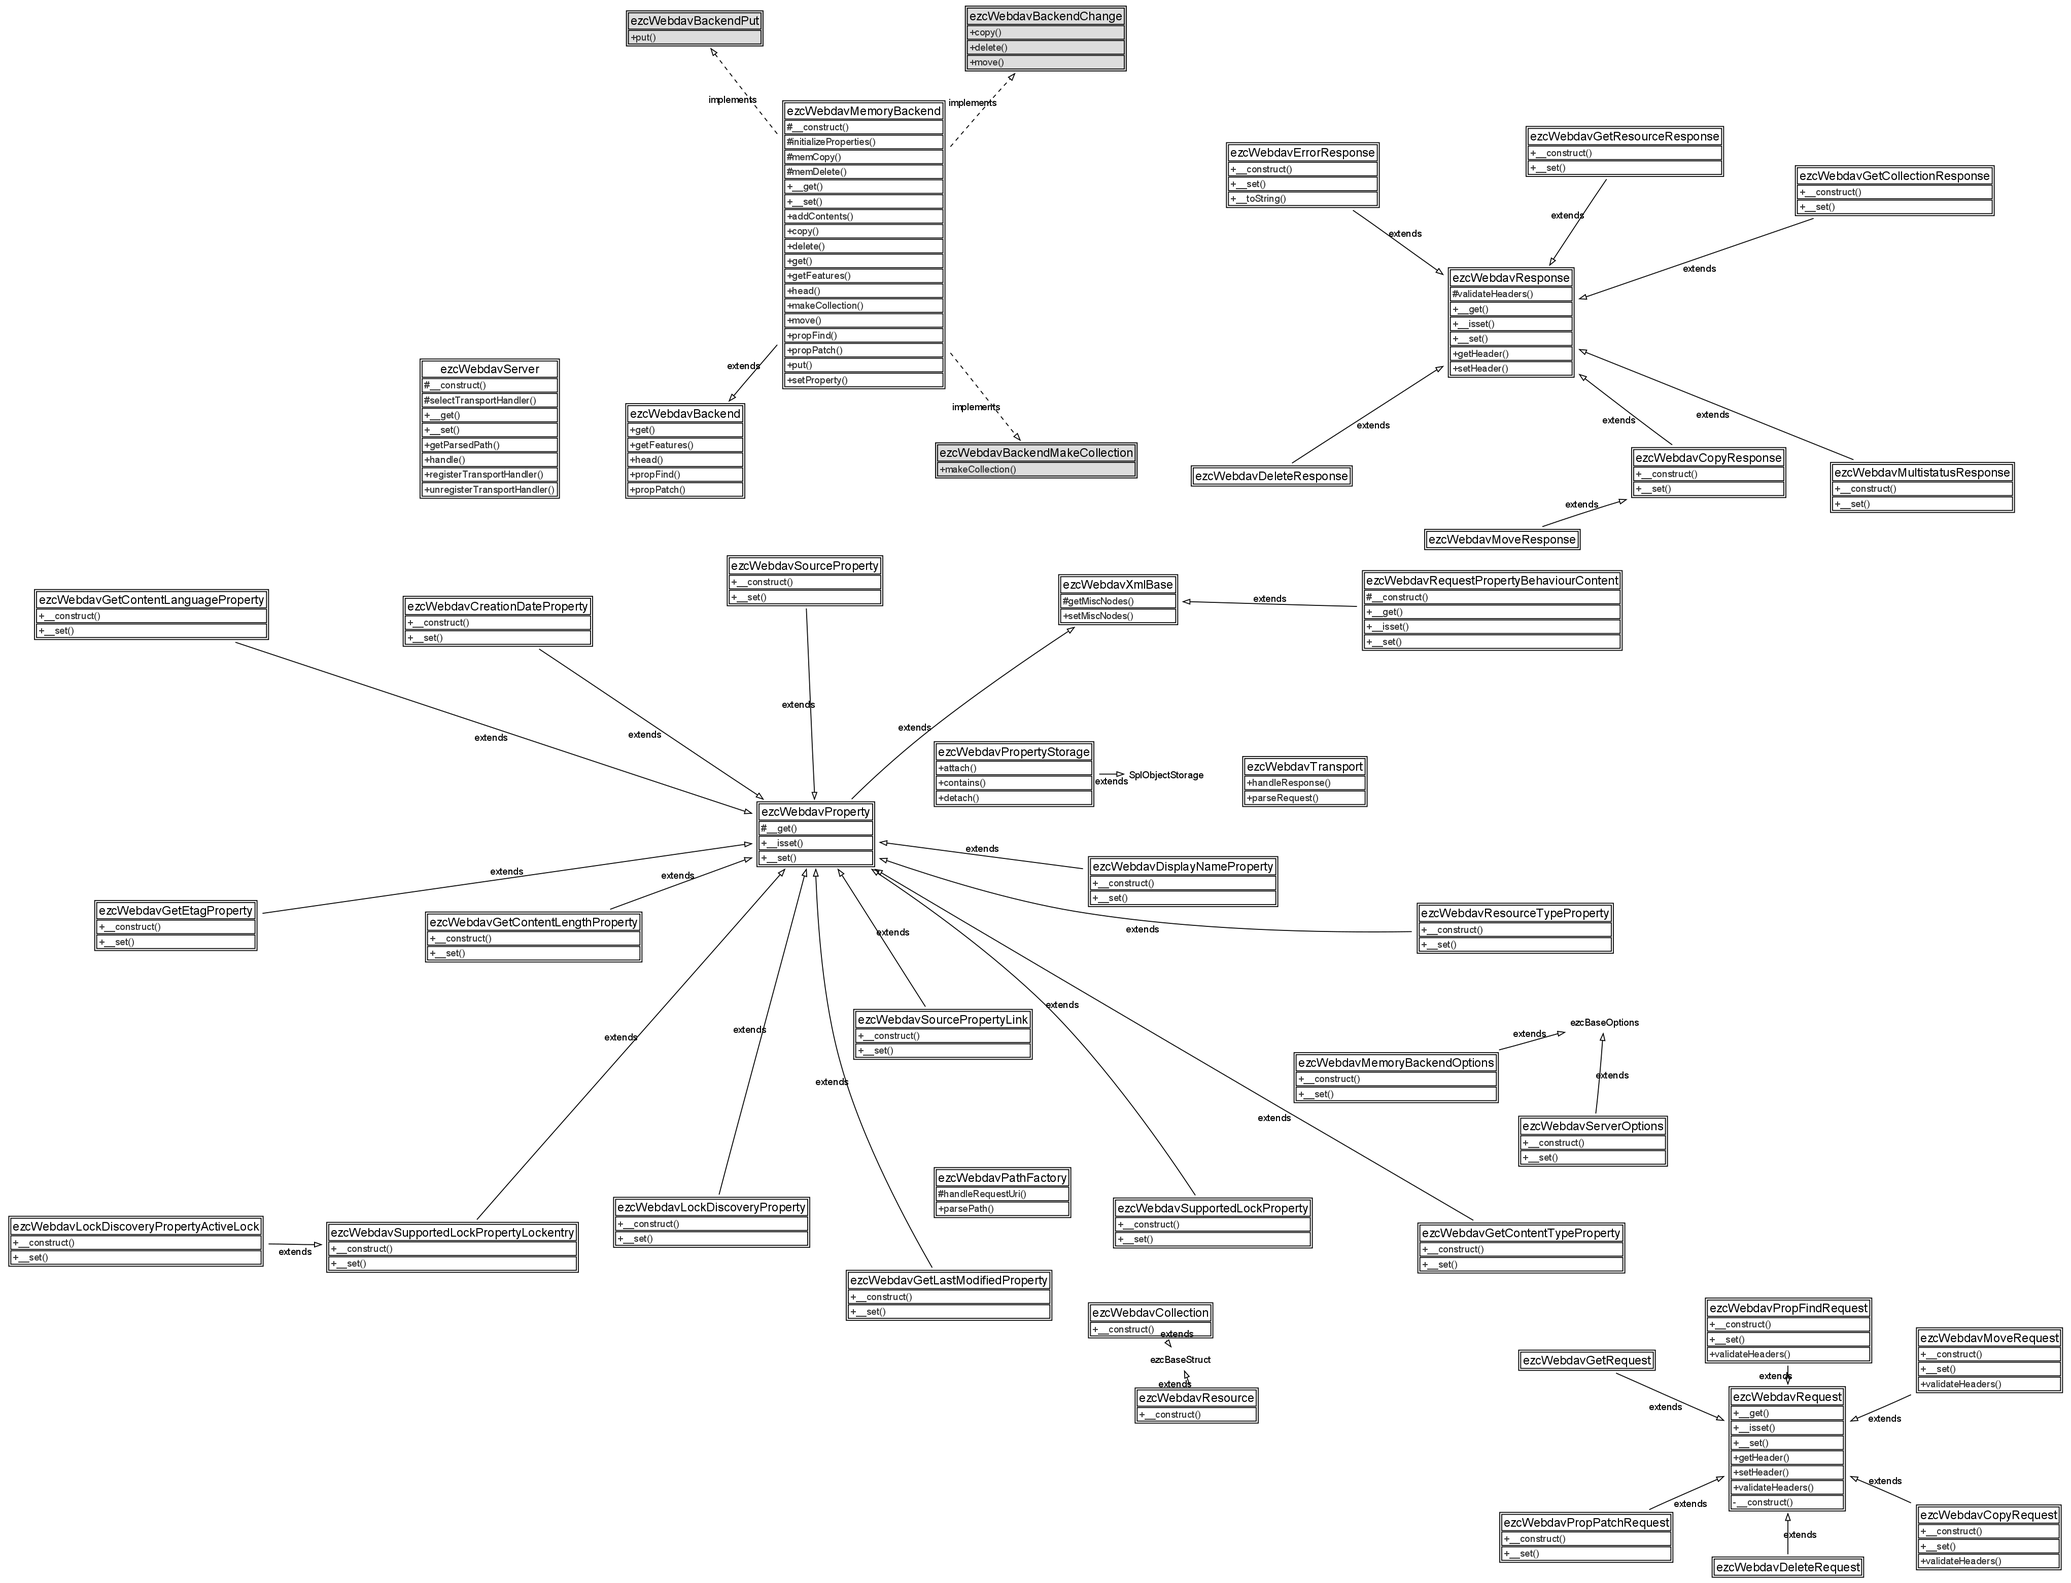
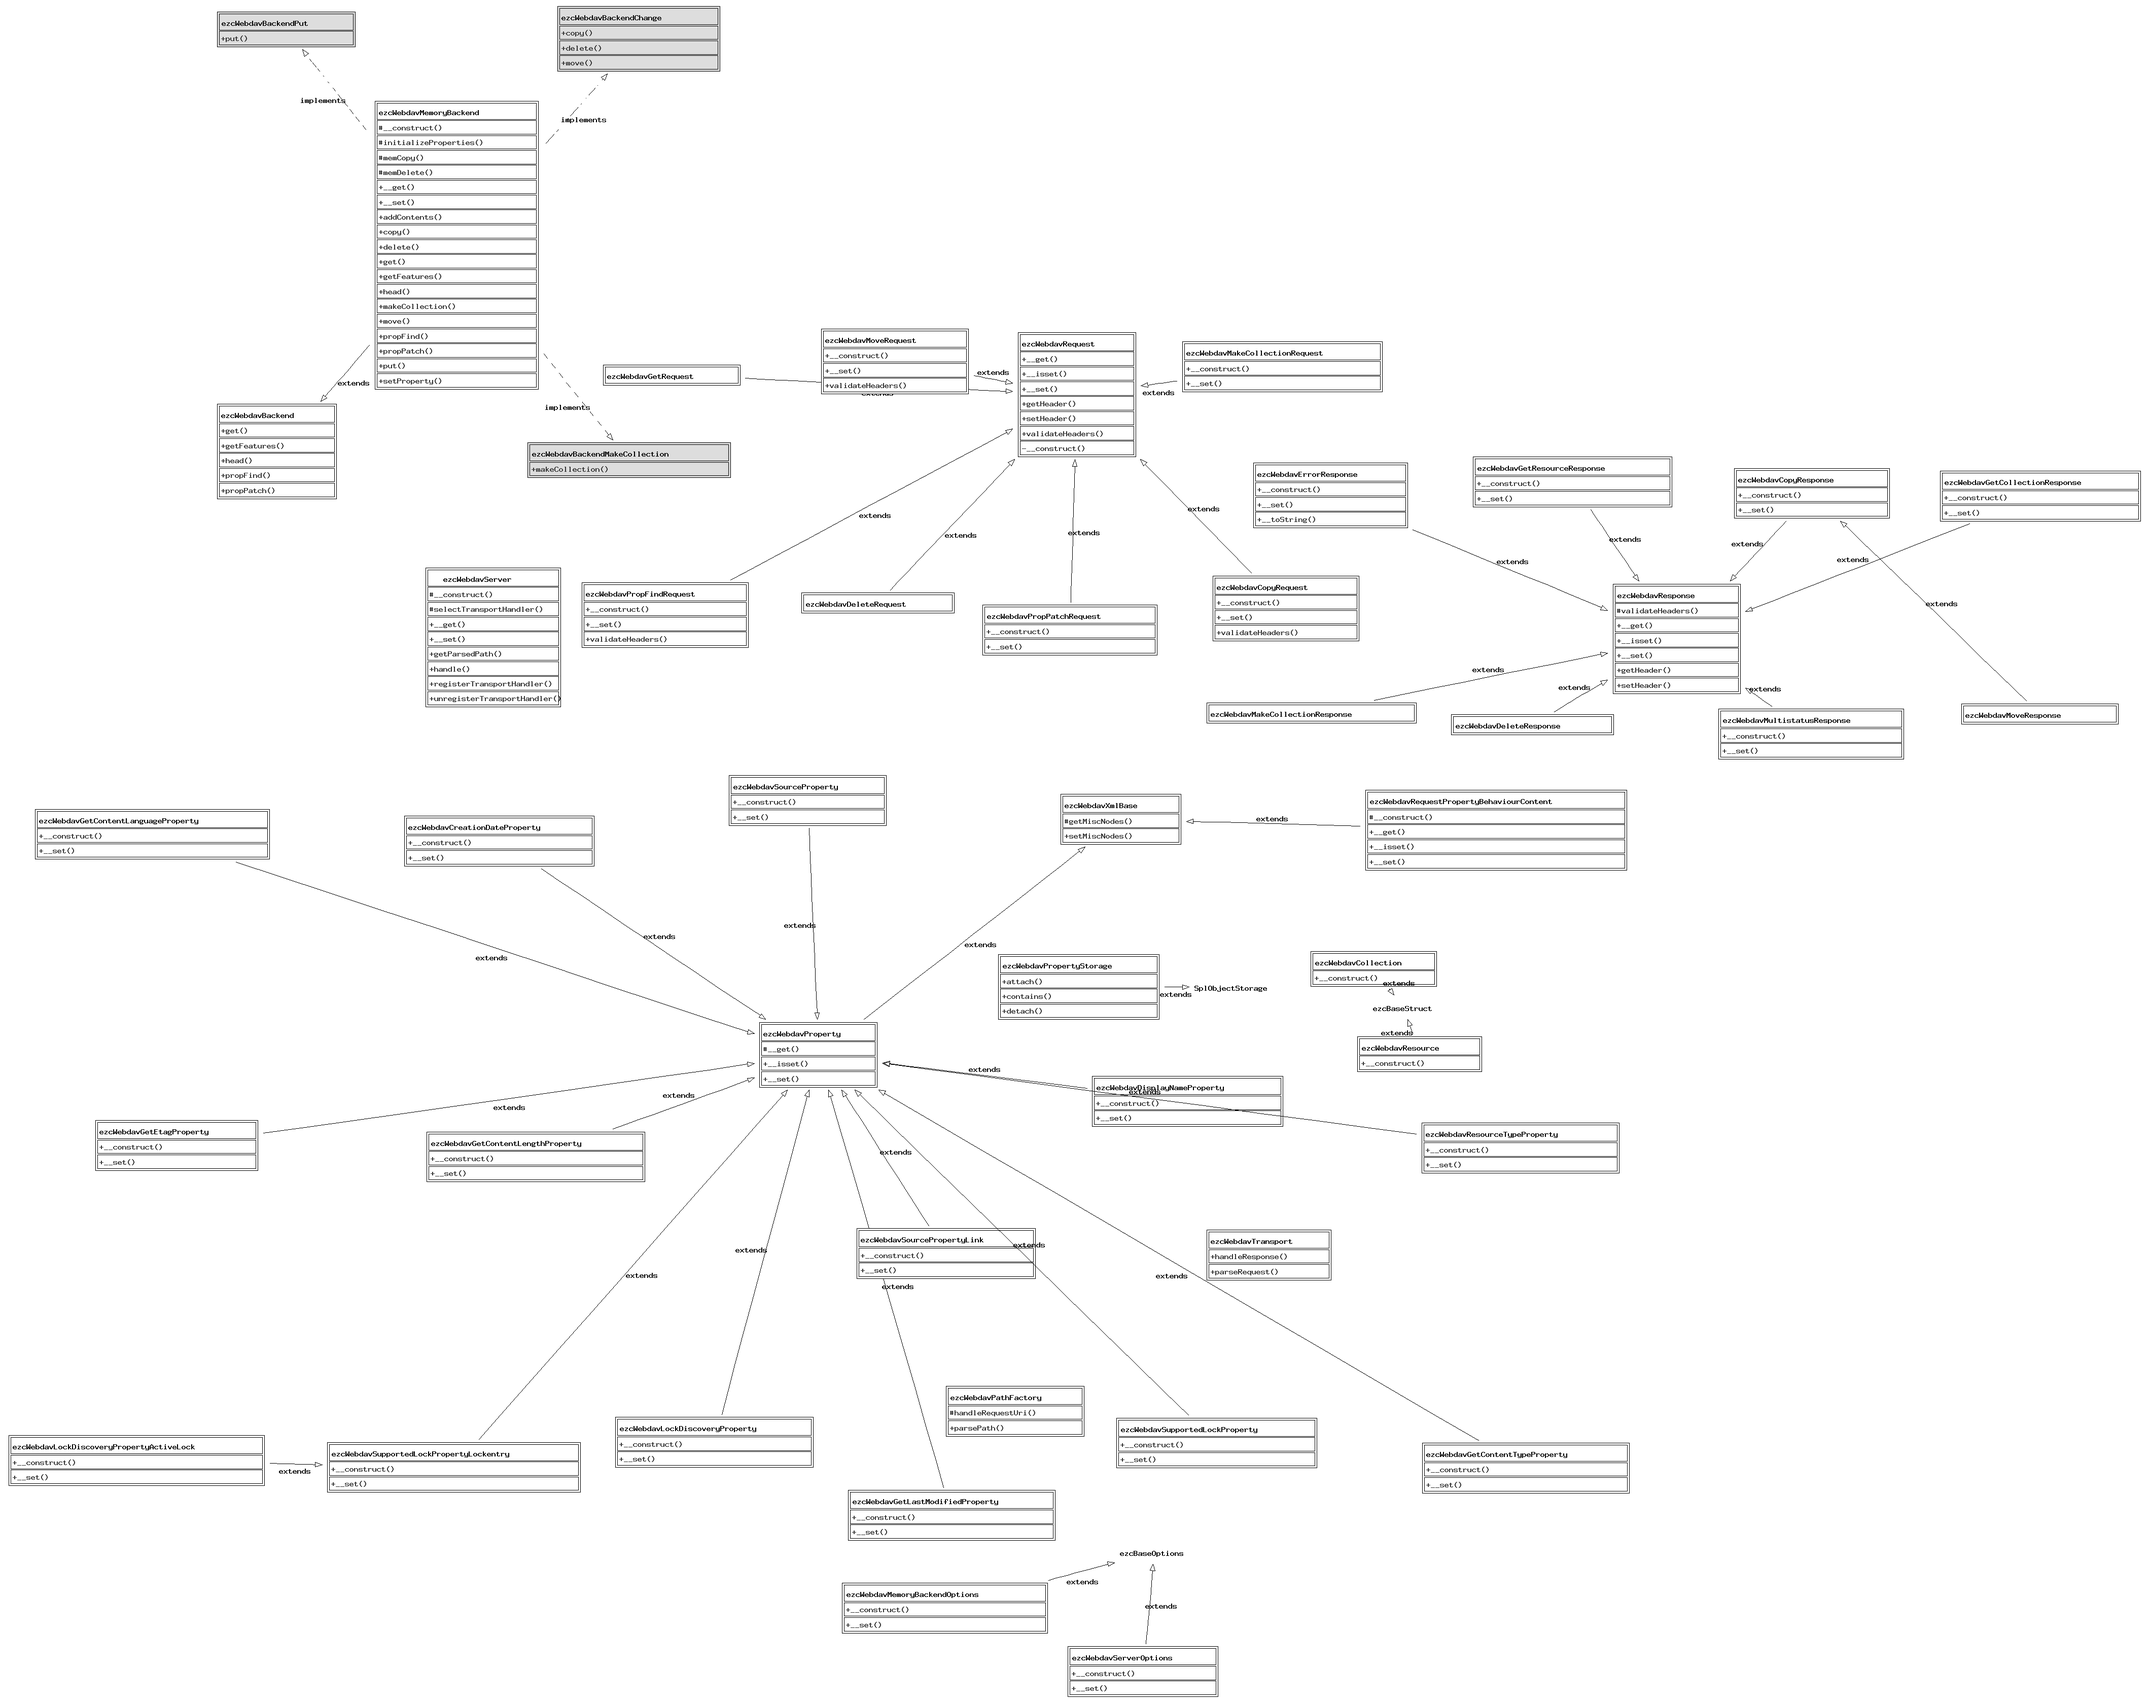
- Added request, response and memory backend handling for MKCOL requests

diff --git a/tests/backend_memory_test.php b/tests/backend_memory_test.php
@@ -1149,5 +1149,166 @@ class ezcWebdavMemoryBackendTest extends ezcWebdavTestCase
             )
         );
     }
+
+    public function testMakeCollectionOnExistingCollection()
+    {
+        $backend = new ezcWebdavMemoryBackend();
+        $backend->addContents( array(
+            'foo' => 'bar',
+            'bar' => array(
+                'blubb' => 'Somme blubb blubbs.',
+            )
+        ) );
+
+        $request = new ezcWebdavMakeCollectionRequest( '/bar' );
+        $request->validateHeaders();
+        $response = $backend->makeCollection( $request );
+
+        $this->assertEquals(
+            $response,
+            new ezcWebdavErrorResponse(
+                ezcWebdavErrorResponse::STATUS_405,
+                '/bar'
+            ),
+            'Expected response does not match real response.'
+        );
+    }
+
+    public function testMakeCollectionOnExistingRessource()
+    {
+        $backend = new ezcWebdavMemoryBackend();
+        $backend->addContents( array(
+            'foo' => 'bar',
+            'bar' => array(
+                'blubb' => 'Somme blubb blubbs.',
+            )
+        ) );
+
+        $request = new ezcWebdavMakeCollectionRequest( '/foo' );
+        $request->validateHeaders();
+        $response = $backend->makeCollection( $request );
+
+        $this->assertEquals(
+            $response,
+            new ezcWebdavErrorResponse(
+                ezcWebdavErrorResponse::STATUS_405,
+                '/foo'
+            ),
+            'Expected response does not match real response.'
+        );
+    }
+
+    public function testMakeCollectionMissingParent()
+    {
+        $backend = new ezcWebdavMemoryBackend();
+        $backend->addContents( array(
+            'foo' => 'bar',
+            'bar' => array(
+                'blubb' => 'Somme blubb blubbs.',
+            )
+        ) );
+
+        $request = new ezcWebdavMakeCollectionRequest( '/dum/di' );
+        $request->validateHeaders();
+        $response = $backend->makeCollection( $request );
+
+        $this->assertEquals(
+            $response,
+            new ezcWebdavErrorResponse(
+                ezcWebdavErrorResponse::STATUS_409,
+                '/dum/di'
+            ),
+            'Expected response does not match real response.'
+        );
+    }
+
+    public function testMakeCollectionInRessource()
+    {
+        $backend = new ezcWebdavMemoryBackend();
+        $backend->addContents( array(
+            'foo' => 'bar',
+            'bar' => array(
+                'blubb' => 'Somme blubb blubbs.',
+            )
+        ) );
+
+        $request = new ezcWebdavMakeCollectionRequest( '/foo/bar' );
+        $request->validateHeaders();
+        $response = $backend->makeCollection( $request );
+
+        $this->assertEquals(
+            $response,
+            new ezcWebdavErrorResponse(
+                ezcWebdavErrorResponse::STATUS_403,
+                '/foo/bar'
+            ),
+            'Expected response does not match real response.'
+        );
+    }
+
+    public function testMakeCollectionWithRequestBody()
+    {
+        $backend = new ezcWebdavMemoryBackend();
+        $backend->addContents( array(
+            'foo' => 'bar',
+            'bar' => array(
+                'blubb' => 'Somme blubb blubbs.',
+            )
+        ) );
+
+        $request = new ezcWebdavMakeCollectionRequest( '/bar/foo', 'with request body' );
+        $request->validateHeaders();
+        $response = $backend->makeCollection( $request );
+
+        $this->assertEquals(
+            $response,
+            new ezcWebdavErrorResponse(
+                ezcWebdavErrorResponse::STATUS_415,
+                '/bar/foo'
+            ),
+            'Expected response does not match real response.'
+        );
+    }
+
+    public function testMakeCollection()
+    {
+        $backend = new ezcWebdavMemoryBackend();
+        $backend->addContents( array(
+            'foo' => 'bar',
+            'bar' => array(
+                'blubb' => 'Somme blubb blubbs.',
+            )
+        ) );
+
+        $request = new ezcWebdavMakeCollectionRequest( '/bar/foo' );
+        $request->validateHeaders();
+        $response = $backend->makeCollection( $request );
+
+        $this->assertEquals(
+            $response,
+            new ezcWebdavMakeCollectionResponse(
+                '/bar/foo'
+            ),
+            'Expected response does not match real response.'
+        );
+
+        $content = $this->readAttribute( $backend, 'content' );
+        $this->assertEquals(
+            $content,
+            array(
+                '/' => array(
+                    '/foo',
+                    '/bar',
+                ),
+                '/foo' => 'bar',
+                '/bar' => array(
+                    '/bar/blubb',
+                    '/bar/foo',
+                ),
+                '/bar/blubb' => 'Somme blubb blubbs.',
+                '/bar/foo' => array(),
+            )
+        );
+    }
 }
 ?>

diff --git a/src/backend/memory.php b/src/backend/memory.php
@@ -226,6 +226,24 @@ class ezcWebdavMemoryBackend
     }
 
     /**
+     * Create a new collection.
+     *
+     * Creates a new collection at the given path.
+     * 
+     * @param string $path 
+     * @access protected
+     * @return void
+     */
+    protected function createCollection( $path )
+    {
+        // Create collection
+        $this->content[$path] = array();
+
+        // Add collection to parent node
+        $this->content[dirname( $path )][] = $path;
+    }
+
+    /**
      * Manually set a property on a ressource to request it later.
      * 
      * @param string $ressource 
@@ -872,7 +890,57 @@ class ezcWebdavMemoryBackend
      */
     public function makeCollection( ezcWebdavMakeCollectionRequest $request )
     {
-        // @TODO: Implement.
+        $collection = $request->requestUri;
+
+        // If ressource already exists, the collection cannot be created and a
+        // 405 is thrown.
+        if ( isset( $this->content[$collection] ) )
+        {
+            return new ezcWebdavErrorResponse(
+                ezcWebdavErrorResponse::STATUS_405,
+                $collection
+            );
+        }
+
+        // Check if the parent node already exists, otherwise throw a 409
+        // error.
+        if ( !isset( $this->content[dirname( $collection )] ) )
+        {
+            return new ezcWebdavErrorResponse(
+                ezcWebdavErrorResponse::STATUS_409,
+                $collection
+            );
+        }
+
+        // If the parent node exists, but is a ressource, which obviously can
+        // not accept any members, throw a 403 error.
+        if ( !is_array( $this->content[dirname( $collection )] ) )
+        {
+            return new ezcWebdavErrorResponse(
+                ezcWebdavErrorResponse::STATUS_403,
+                $collection
+            );
+        }
+
+        // As the handling of request bodies is not described in RFC 2518, we
+        // skip their handling and always return a 415 error.
+        if ( $request->body )
+        {
+            return new ezcWebdavErrorResponse(
+                ezcWebdavErrorResponse::STATUS_415,
+                $collection
+            );
+        }
+
+        // Cause error, if requested?
+
+        // All checks passed, we can create the collection
+        $this->createCollection( $collection );
+
+        // Return success
+        return new ezcWebdavMakeCollectionResponse(
+            $collection
+        );
     }
 }
 

diff --git a/src/request/mkcol.php b/src/request/mkcol.php
@@ -1,0 +1,72 @@
+<?php
+/**
+ * File containing the class representing a MKCOL request to the WebDAV server.
+ *
+ * @package Webdav
+ * @version //autogentag//
+ * @copyright Copyright (C) 2005-2007 eZ systems as. All rights reserved.
+ * @license http://ez.no/licenses/new_bsd New BSD License
+ */
+/**
+ * Struct-like class representing all relevant information about a webdav MKCOL
+ * request.
+ *
+ * @property string $body
+ *           The request body of a MKCOL request.
+ *
+ * @version //autogentag//
+ * @package Webdav
+ */
+class ezcWebdavMakeCollectionRequest extends ezcWebdavRequest
+{
+    /**
+     * Creates a new MKCOL request object.
+     *
+     * The request is created from the collection, which should be created and
+     * an optional request body.
+     * 
+     * @param string $requestUri
+     * @param string $body
+     * @return void
+     */
+    public function __construct( $requestUri, $body = null )
+    {
+        // Set from constructor values
+        parent::__construct( $requestUri );
+
+        // Create properties
+        $this->properties['body'] = $body;
+    }
+
+    /**
+     * Sets a property.
+     * This method is called when an property is to be set.
+     * 
+     * @param string $propertyName The name of the property to set.
+     * @param mixed $propertyValue The property value.
+     * @ignore
+     *
+     * @throws ezcBasePropertyNotFoundException
+     *         if the given property does not exist.
+     * @throws ezcBaseValueException
+     *         if the value to be assigned to a property is invalid.
+     * @throws ezcBasePropertyPermissionException
+     *         if the property to be set is a read-only property.
+     */
+    public function __set( $propertyName, $propertyValue )
+    {
+        switch ( $propertyName )
+        {
+            case 'body':
+                throw new ezcBasePropertyPermissionException( 
+                    $propertyName,
+                    ezcBasePropertyPermissionException::READ
+                );
+
+            default:
+                parent::__set( $propertyName, $propertyValue );
+        }
+    }
+}
+
+?>

diff --git a/src/webdav_autoload.php b/src/webdav_autoload.php
@@ -44,6 +44,8 @@ return array(
     'ezcWebdavGetResourceResponse'             => 'Webdav/response/get_resource.php',
     'ezcWebdavLockDiscoveryProperty'           => 'Webdav/properties/lockdiscovery.php',
     'ezcWebdavLockDiscoveryPropertyActiveLock' => 'Webdav/properties/lockdiscovery_activelock.php',
+    'ezcWebdavMakeCollectionRequest'           => 'Webdav/request/mkcol.php',
+    'ezcWebdavMakeCollectionResponse'          => 'Webdav/response/mkcol.php',
     'ezcWebdavMemoryBackend'                   => 'Webdav/backend/memory.php',
     'ezcWebdavMemoryBackendOptions'            => 'Webdav/options/backend_memory_options.php',
     'ezcWebdavMoveRequest'                     => 'Webdav/request/move.php',

diff --git a/src/response/mkcol.php b/src/response/mkcol.php
@@ -1,0 +1,23 @@
+<?php
+/**
+ * File containing the class representing a MKCOL response from the webdav
+ * server.
+ *
+ * @package Webdav
+ * @version //autogentag//
+ * @copyright Copyright (C) 2005-2007 eZ systems as. All rights reserved.
+ * @license http://ez.no/licenses/new_bsd New BSD License
+ */
+/**
+ * Class representing a response on a MKCOL request.
+ *
+ * @version //autogentag//
+ * @package Webdav
+ * @copyright Copyright (C) 2005-2007 eZ systems as. All rights reserved.
+ * @license http://ez.no/licenses/new_bsd New BSD License
+ */
+class ezcWebdavMakeCollectionResponse extends ezcWebdavResponse
+{
+}
+
+?>
